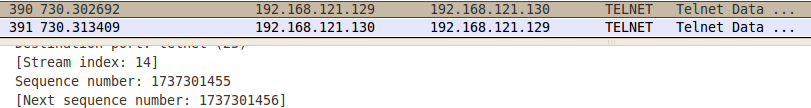
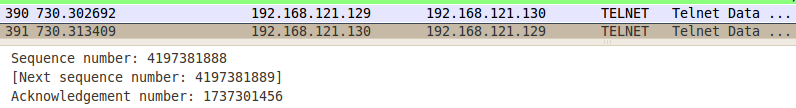
done :)

diff --git a/hw3/report.tex b/hw3/report.tex
@@ -37,7 +37,7 @@ ip address of gateway				& 	192.168.121.2\\
 \end{tabularx}
 \end{table}
 \subsubsection{Running netwox}
-Tool 33 is used for this, to broadcast an ARP packet that \emph{192.168.121.2} has a hardware address of \emph{00:0C:29:41:88:70}. Tool 33 basically serves to send out an ARP reply packet and since the computer doesn't check if it has previously sent a ARP request, sending a new ARP reply to the target machine will update it's ARP table.\\
+Tool 33 is used for this, to send an ARP packet that \emph{192.168.121.2} has a hardware address of \emph{00:0C:29:41:88:70} to the target machine. Tool 33 basically serves to send out an ARP reply packet and since the computer doesn't check if it has previously sent a ARP request, sending a new ARP reply to the target machine will update it's ARP table.\\
 
 \begin{lstlisting}
 netwox 33 --device "eth2" --eth-src 00:0C:29:41:88:70 --eth-dst 00:0c:29:95:fb:a1 --eth-type 2054 --arp-op 2 --arp-ethsrc 00:0C:29:41:88:70 --arp-ipsrc 192.168.121.2 --arp-ethdst 00:0c:29:95:fb:a1 --arp-ipdst 192.168.121.30
@@ -59,7 +59,7 @@ In TCP, there is generally a 3-way handshake before a connection starts, where t
 In a SYN Flooding Attack, a series of \emph{SYN} packets are sent, and the subsequent \emph{SYN-ACK} packets from the server is ignored. This would result in the server having to dedicate resources to wait for the \emph{ACK} packets from the client.\\
 
 \subsection{Using netwox tool to attack}
-The tool used was tool 76, the SYNFlood tool, and was targeted at port \emph{23} of the target machine, ip address being \emph{192.168.121.130}, which telnet was listening to.\\
+The tool used was tool 76, the SYNFlood tool, and was targeted at port \emph{23} of the target machine, ip address being \emph{192.168.121.130}, which the telnet server was listening to.\\
 
 \begin{lstlisting}
 netwox 76 --dst-ip 192.168.121.130 --dst-port 23
@@ -85,10 +85,10 @@ In essence, TCP reset will instantly stop a TCP connection. \\
 In a TCP RST Attack, the attacking machine will basically forge the TCP packet from the sender, with the \emph{RST} bit set to 1, and send it to the target machine. This would then instantly result in the connection being dropped, and a new connection must be established to transmit data again. \\
 
 \subsection{Using netwox tool to attack}
-Tool 78 is used to launch the TCP RST Attack. Since for this machine, eth2 is the one connected to the network, it is the device used for this attack. \\
+Tool 78 is used to launch the TCP RST Attack. Since for this machine, eth2 is the one connected to the network, it is the device used for this attack, and the target machine is \emph{192.168.121.130}. \\
 
 \begin{lstlisting}
-netwox 78 --device "eth2"
+netwox 78 --device "eth2" --ips "192.168.121.130"
 \end{lstlisting}
 
 \subsection{Result}
@@ -117,7 +117,7 @@ netwox 40 --ip4-offsetfrag 0 --ip4-ttl 64 --ip4-protocol 6 --ip4-src 192.168.121
 \subsubsection{Meaning of command line arguments}
 \begin{table}[here]
 \centering
-\begin{tabularx}{0.7\textwidth}{ | l | X | }
+\begin{tabularx}{\textwidth}{ | l | X | }
 \hline
 Argument			&	Meaning \\
 \hline
@@ -149,9 +149,37 @@ Argument			&	Meaning \\
 \end{table}
 
 \subsection{Screenshots of results in Wireshark}
+\subsubsection{First Packet}
 \includegraphics[width=160mm]{task41.png}
+\subsubsection{Second Packet}
 \includegraphics[width=160mm]{task42.png}
+\subsubsection{Third Packet}
 \includegraphics[width=160mm]{task43.png}
+\subsubsection{Fourth Packet}
 \includegraphics[width=160mm]{task44.png}
 \includegraphics[width=160mm]{task45.png}
+
+\subsection{Abnormal Behavior observed in Wireshark}
+\includegraphics[width=160mm]{task46.png}
+
+There are quite a few TCP Keep-Alive Packets. This is as on the client side there were no ACK's transmitted to the telnet server, and hence it sends the Keep-Alive packets to keep the session alive.\\
+
+\subsection{Eliminating the Abnormal Packets}
+The abnormal packets were removed by ACK-ing the response from the telnet server. The command to do that would be the command below.\\
+
+\begin{lstlisting}
+netwox 40 --ip4-offsetfrag 0 --ip4-ttl 64 --ip4-protocol 6 --ip4-src 192.168.121.129 --ip4-dst 192.168.121.130 --tcp-src 53022 --tcp-dst 23 --tcp-seqnum 1737301456 --tcp-acknum 4197381889 --tcp-ack
+\end{lstlisting}
+
+The command basically acknowledge the previous packet sent by the telnet server, which will lead to the server not sending any more Keep-Alive Packets.\\
+
+\subsection{Investigation}
+\subsubsection{TCP Initial Sequence Numbers}
+The TCP Initial Sequence Numbers are not predictable and random.
+
+\subsubsection{TCP Window Size}
+The TCP Window Size starts off at a large value above 5000, before decreasing to 91, because Telnet does not need that large a window size. 
+
+\subsubsection{Source Port numbers}
+The initial TCP source port number is random and difficult to predict. However, subsequent source ports will generally be 1 or 2 above the previous TCP connection's source port.
 \enddocument
